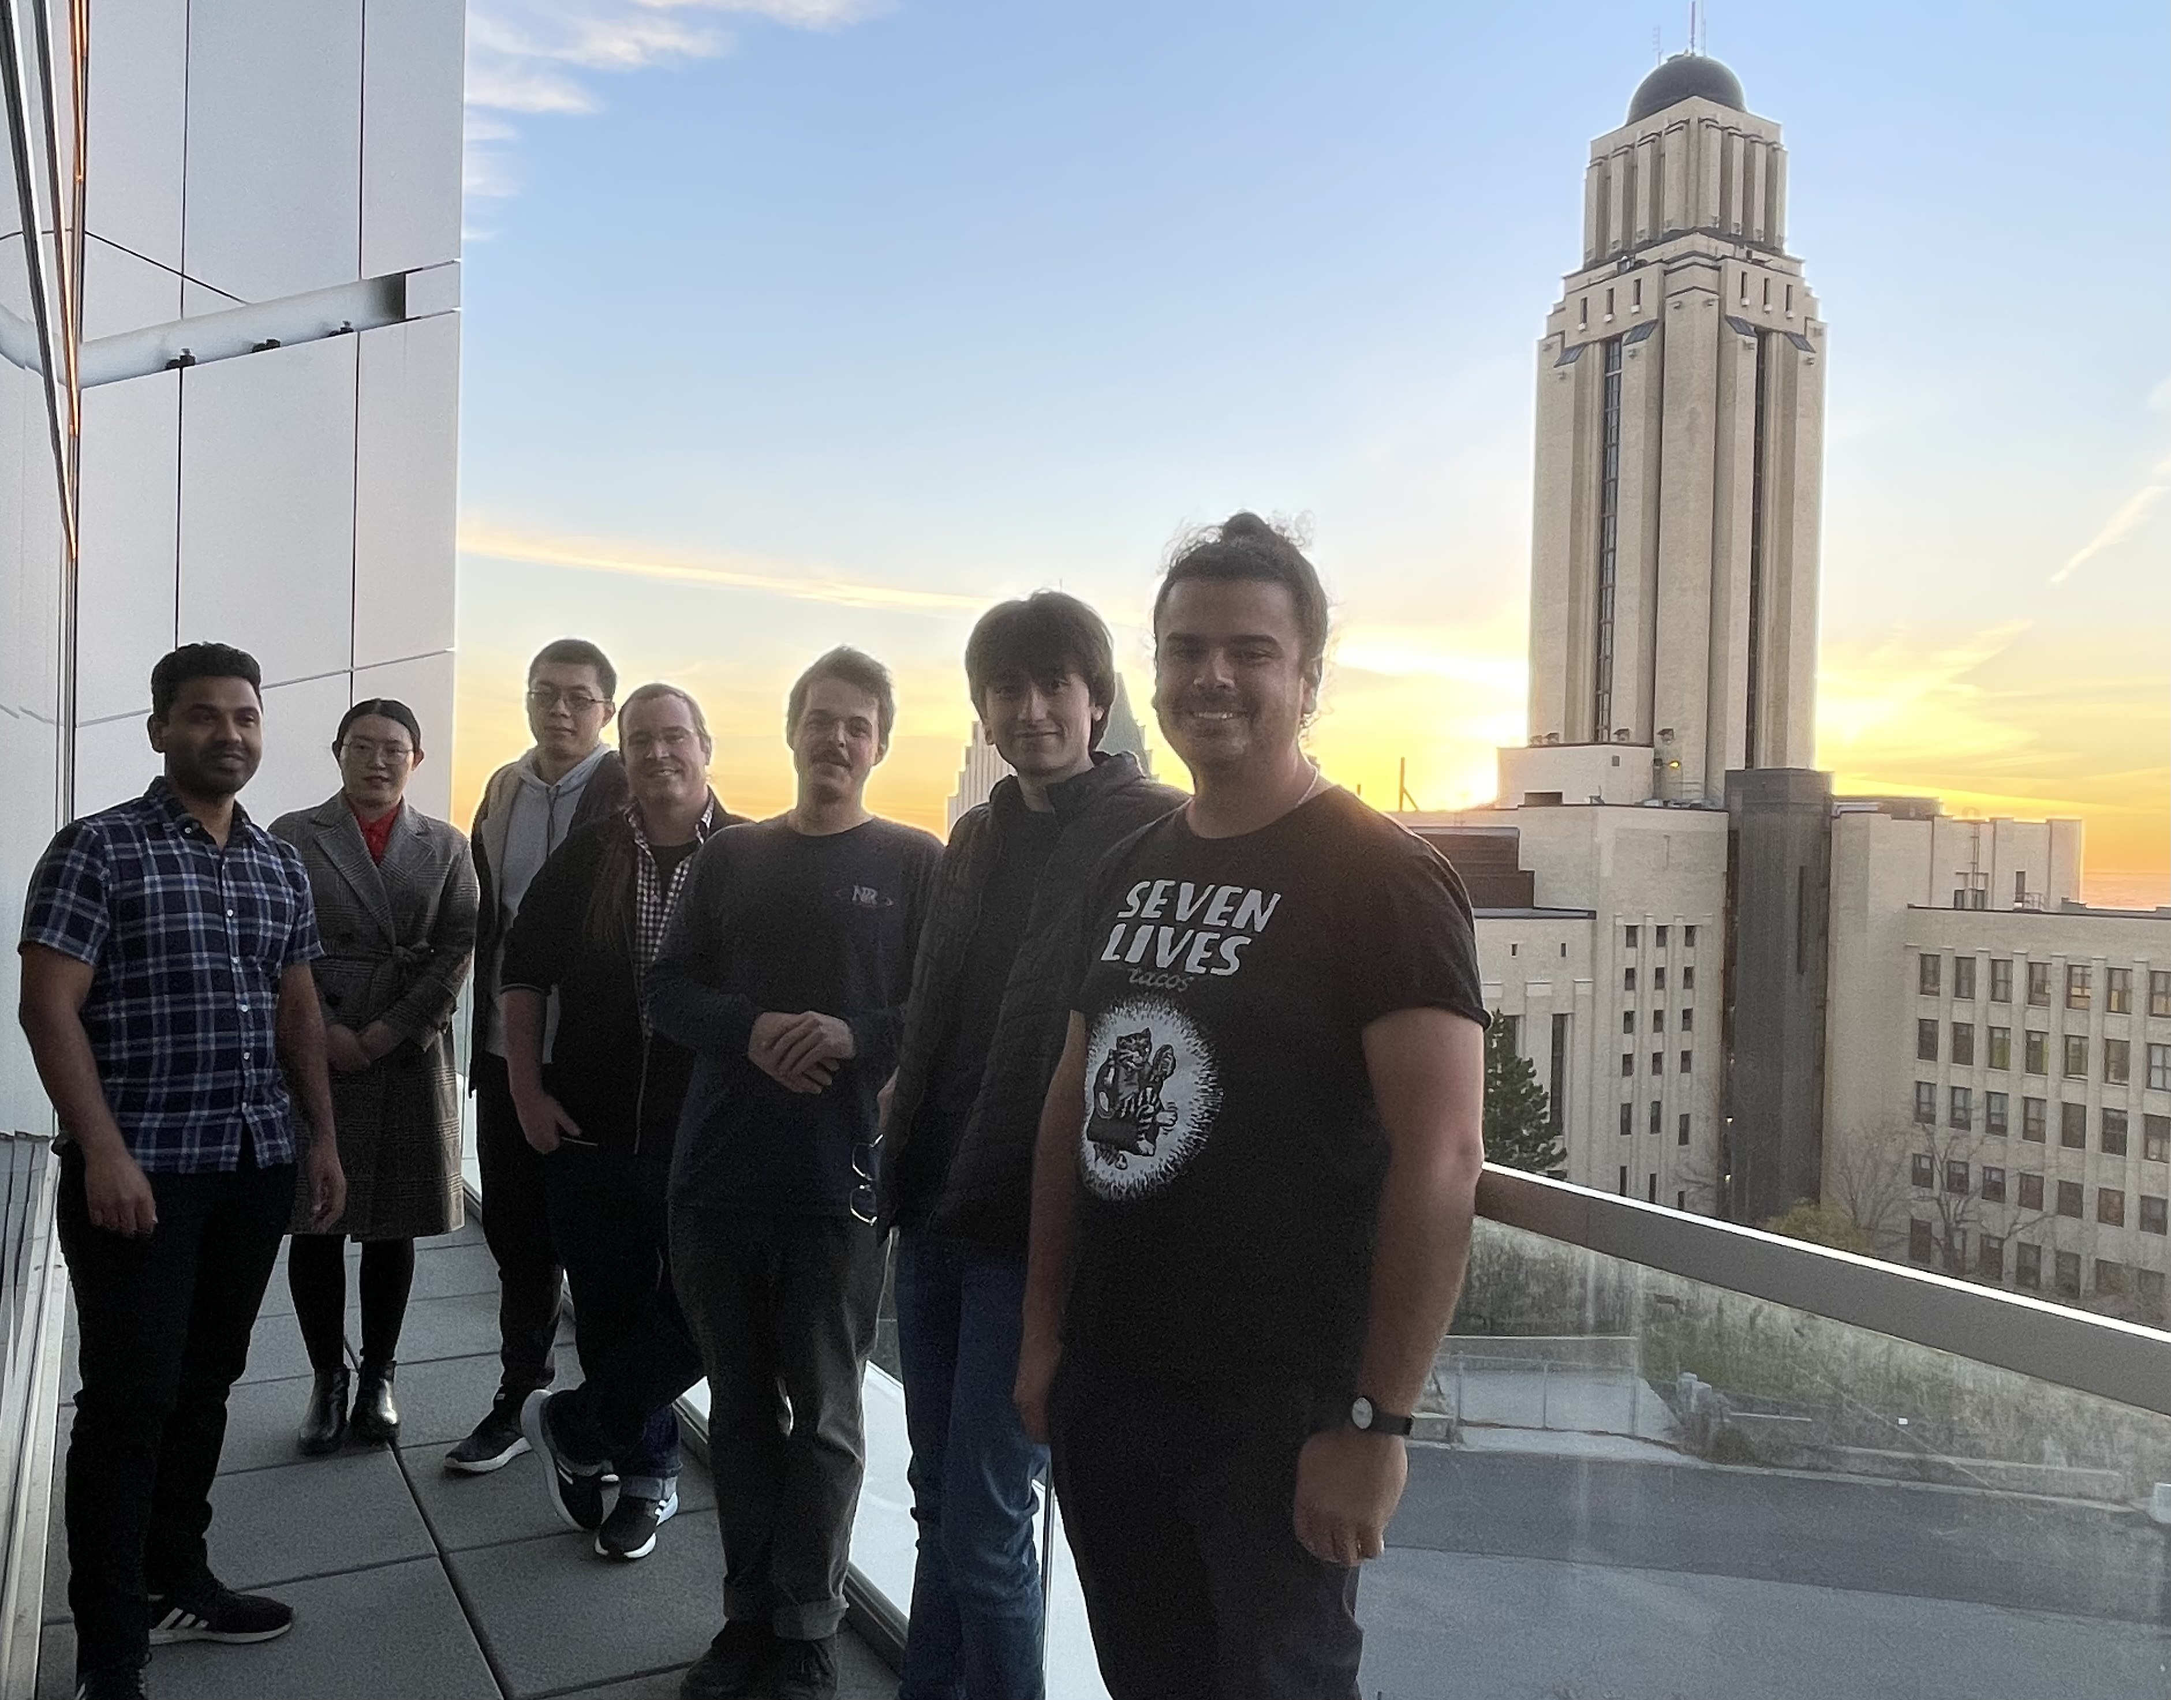
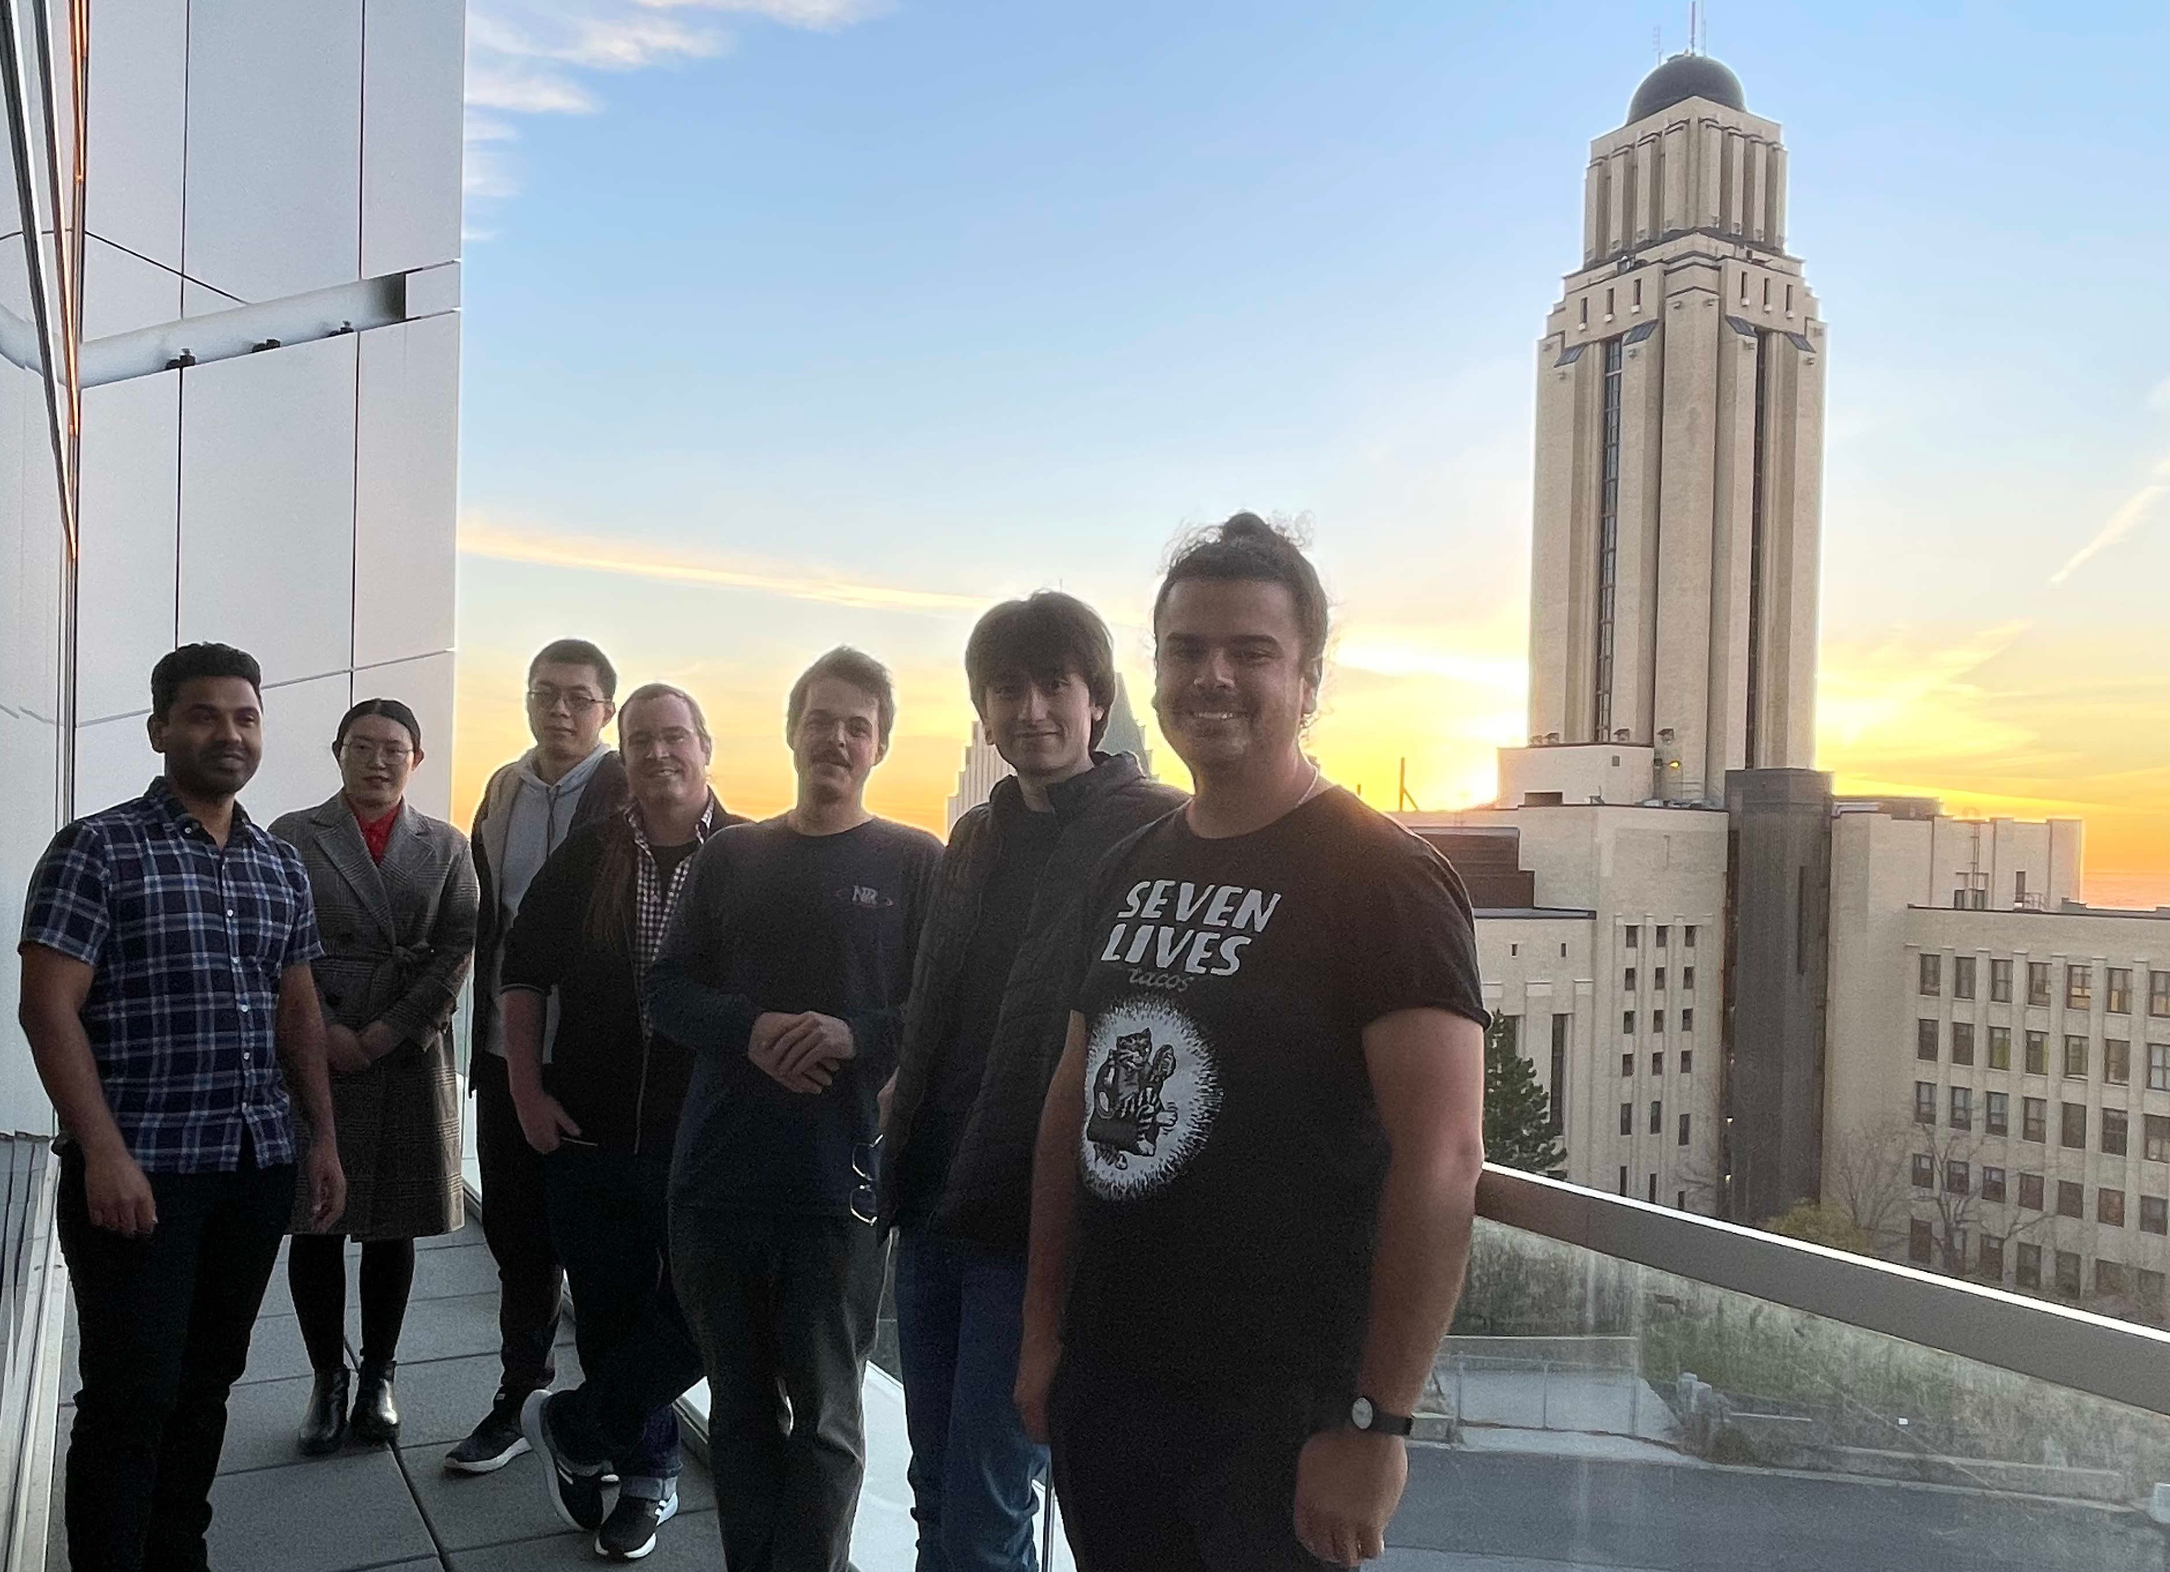
fixes dimensions

diff --git a/index.md b/index.md
@@ -12,8 +12,8 @@ title: Quantum Photonics and Information at Polytechnique Montréal
 
 <img src="https://github.com/polyquantique/polyquantique.github.io/raw/master/assets/images/group_nov_2022.jpg"
      alt="Group Members November 2022"
-     width="660" 
-     height="517"
+     width="700" 
+     height="500"
      style="float: left; margin-right: 10px;" />
 
 Bienvenue sur notre site web!
